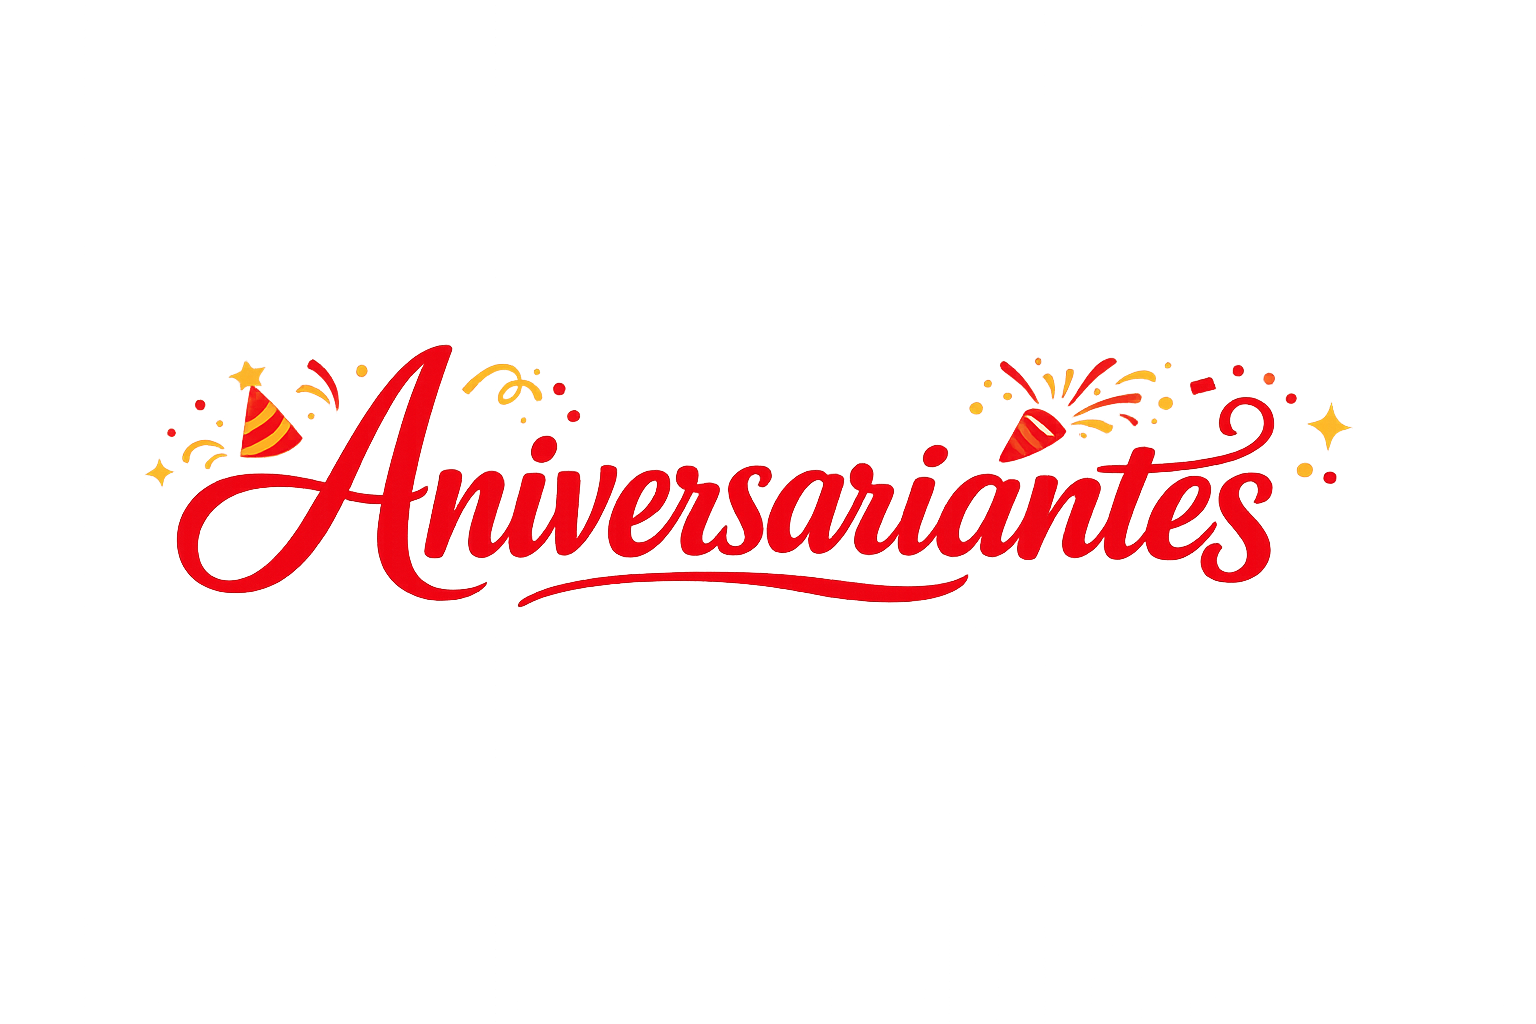
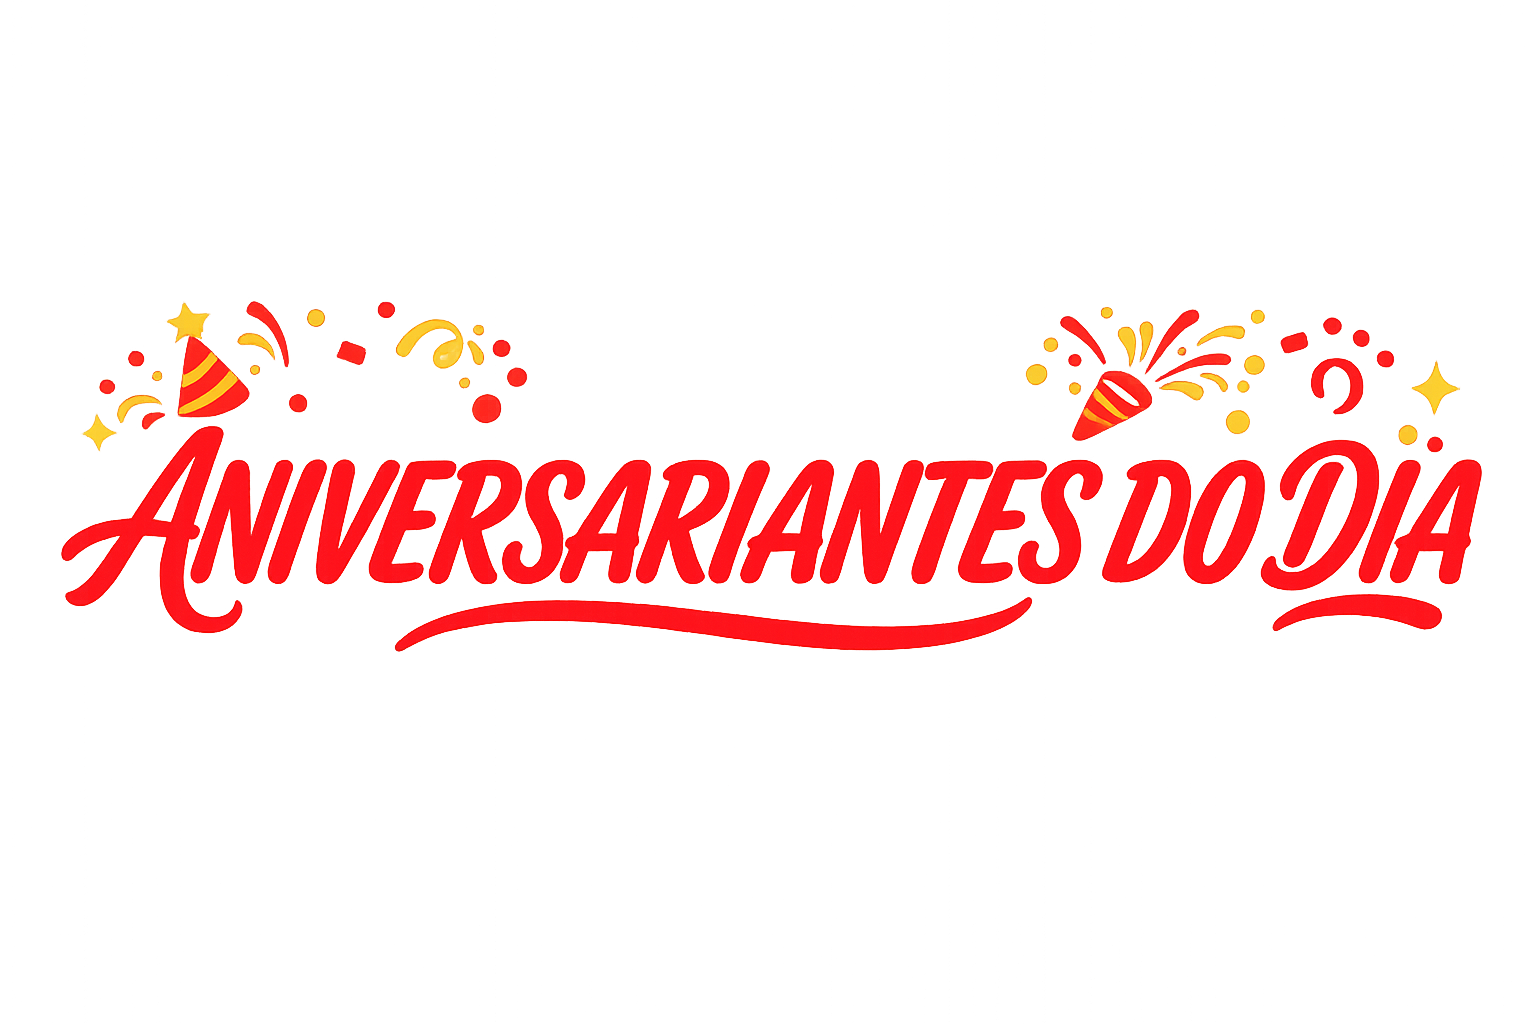
enhance: Alteração da página home * Alteração da imagem de aniversário * Alteração da mensagem de aniversário de alunos, professores, adms * Alteração da função de cadastro para cadastrar usuários que também serão professores

Changed region(s): [[0.0312, 0.2812, 0.9688, 0.6562]]

diff --git a/site_verbo_amar/templates/home.html b/site_verbo_amar/templates/home.html
@@ -15,10 +15,10 @@
             </div>
             <div class="multiline", style="padding-left: 4rem;">
             {% for aniversariante in lista_aniversario_prof %}
-                <p style="font-size: 1.4rem;", style="padding-left: 4rem;">🎉Professor {{aniversariante}}!🎉</p>
+                <p style="font-size: 1.4rem;", style="padding-left: 4rem;">🎉Professor(a) {{aniversariante}}!🎉</p>
             {% endfor %}
             {% for aniversariante in lista_aniversario_alun %}
-                <p style="font-size: 1.4rem;", style="padding-left: 4rem;">🎉Aluno {{aniversariante}}!🎉</p>
+                <p style="font-size: 1.4rem;", style="padding-left: 4rem;">🎉Aluno(a) {{aniversariante}}!🎉</p>
             {% endfor %}
             {% for aniversariante in lista_aniversario_adm %}
                 <p style="font-size: 1.4rem;", style="padding-left: 4rem;">🎉Senhor(a) {{aniversariante}}!🎉</p>